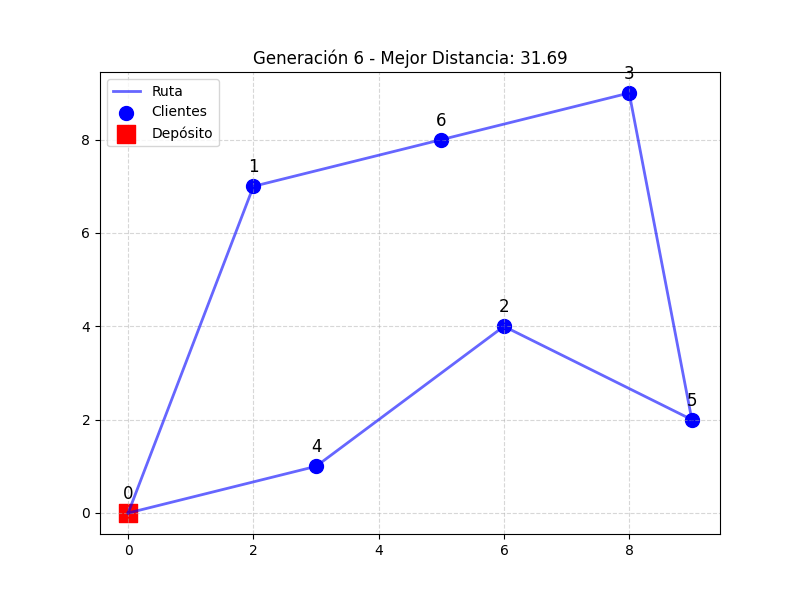
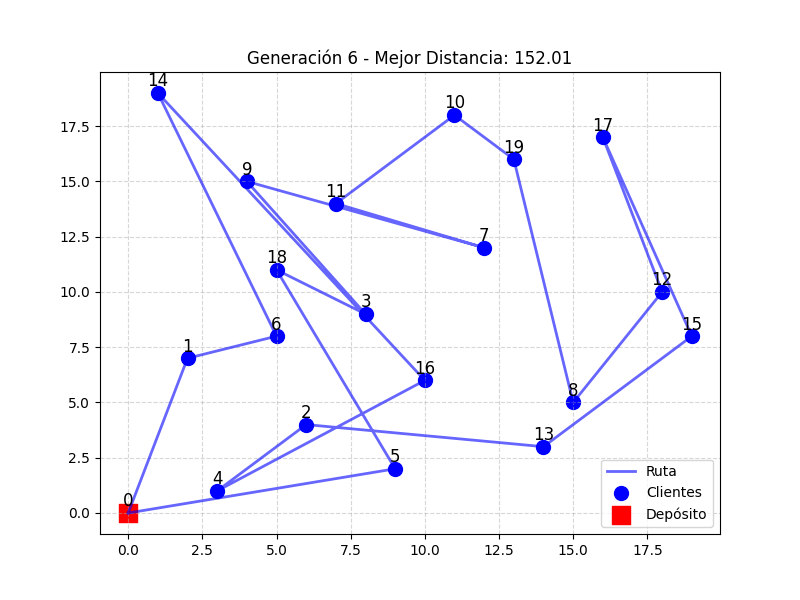
Update genetic algorithm implementation and refine data logging in historial_genetico.csv

diff --git a/Step1/TSP/caso02.py b/Step1/TSP/caso02.py
@@ -5,10 +5,18 @@ import matplotlib.pyplot as plt
 # --- 1. DATOS Y MATRIZ DE DISTANCIAS ---
 
 datos = {
-    'punto': [0, 1, 2, 3, 4, 5, 6],
-    'tipo': ['deposito', 'cliente', 'cliente', 'cliente', 'cliente', 'cliente', 'cliente'],
-    'x': [0, 2, 6, 8, 3, 9, 5],
-    'y': [0, 7, 4, 9, 1, 2, 8]
+    'punto': list(range(20)), # Crea números del 0 al 19
+    'tipo': ['deposito'] + ['cliente'] * 19, 
+    'x': [
+        0,  # Depósito (0,0)
+        2, 6, 8, 3, 9, 5,   # Los originales
+        12, 15, 4, 11, 7, 18, 14, 1, 19, 10, 16, 5, 13 # Nuevos
+    ],
+    'y': [
+        0,  # Depósito (0,0)
+        7, 4, 9, 1, 2, 8,   # Los originales
+        12, 5, 15, 18, 14, 10, 3, 19, 8, 6, 17, 11, 16 # Nuevos
+    ]
 }
 data = pd.DataFrame(datos)
 coords = data[['x', 'y']].values
@@ -21,8 +29,8 @@ clientes_ids = data[data['tipo'] != 'deposito']['punto'].values
 n_clientes = len(clientes_ids)
 
 # Configuración
-POBLACION = 50
-GENERACIONES = 20
+POBLACION = 100
+GENERACIONES = 10
 TASA_MUTACION = 0.2
 
 # --- 2. FUNCIONES DE VISUALIZACIÓN (NUEVO) ---
